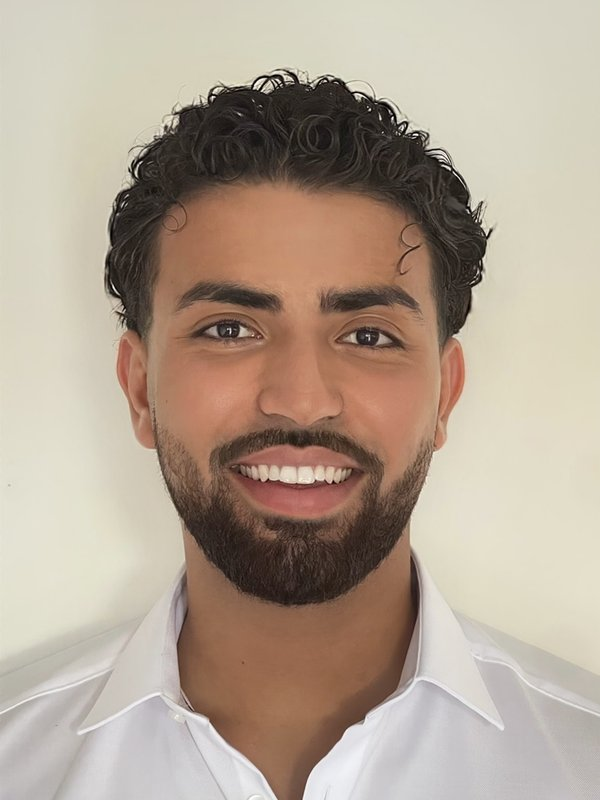
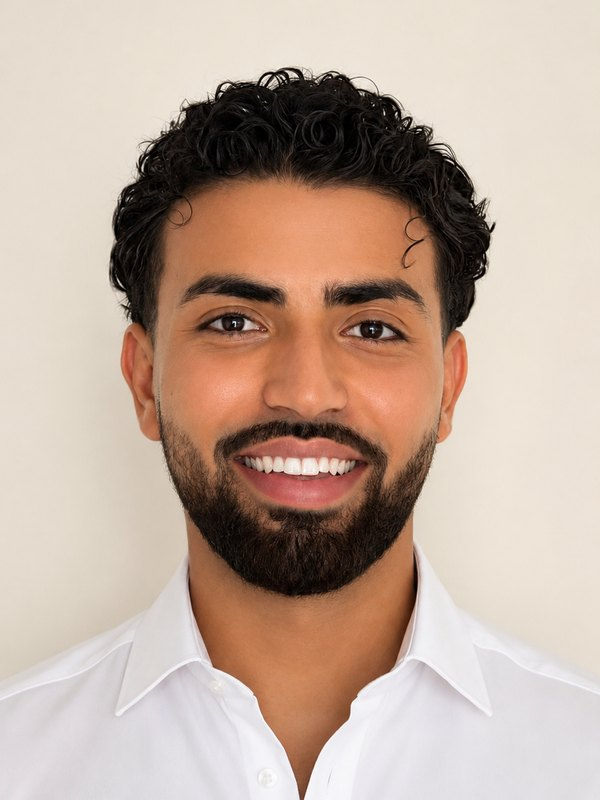
Teamfotos einbinden und Teamleitungen zuordnen
- Fotos aller vier Team-Mitglieder eingebunden (3:4, je zwei Größen für
  scharfe Darstellung auf Mobilgeräten), einheitlich zugeschnitten
- Monis Manai als Teamleitung Karlsruhe, Marc Naccum als Teamleitung Berlin
- Standort-Abschnitte auf Start- und Karriereseite entsprechend korrigiert:
  offen ist jetzt nur noch die Teamleitung in Nürnberg
- Initialen-Platzhalter entfernt, README-Checkliste gekürzt

Claude-Session: https://claude.ai/code/session_019ccmmBehJdBEq4maTRrEXE

diff --git a/index.html b/index.html
@@ -546,8 +546,9 @@
         <span class="badge badge-gold"><i class="dot dot-pulse"></i> In Umsetzung</span>
         <h3 class="mt-16">Expansion nach Berlin &amp; Nürnberg</h3>
         <p class="muted mt-8">
-          Nach Karlsruhe entstehen gerade zwei weitere Standorte. Für beide suchen wir aktuell
-          Teamleiter und Vertriebspartner, die von Tag eins an dabei sind.
+          Nach Karlsruhe entstehen gerade zwei weitere Standorte. Berlin hat mit Marc Naccum bereits
+          eine Teamleitung – für Nürnberg suchen wir sie noch. Vertriebspartner nehmen wir an beiden
+          Standorten ab sofort auf.
         </p>
       </article>
     </div>
@@ -675,13 +676,11 @@
       <h2>Die Menschen hinter Solvera Sales</h2>
       <p class="lead">
         Kurze Wege, klare Ansagen: Bei uns erreichst du die Geschäftsführung direkt –
-        und an jedem Standort steht ein Teamleiter, der selbst im Feld war.
+        und an jedem aufgebauten Standort steht ein Teamleiter, der selbst im Feld war.
+        Für Nürnberg suchen wir diese Position gerade.
       </p>
     </div>
 
-    <!-- TODO: Fotos von Oskar Teschke, Monis Manai und Marc Naccum ergänzen
-         (Format 3:4, z. B. 600×800 px, unter assets/img/ ablegen und wie bei
-         Sami Bssiss als <img> einsetzen). -->
     <div class="team-grid">
       <article class="team-card reveal">
         <div class="team-photo">
@@ -702,7 +701,13 @@
       </article>
 
       <article class="team-card reveal reveal-d1">
-        <div class="team-photo is-empty"><span class="team-initials">OT</span></div>
+        <div class="team-photo">
+          <img src="assets/img/team-oskar-teschke.jpg"
+               srcset="assets/img/team-oskar-teschke@small.jpg 300w, assets/img/team-oskar-teschke.jpg 600w"
+               sizes="(max-width: 460px) 100vw, (max-width: 880px) 50vw, 25vw"
+               alt="Oskar Teschke, Geschäftsführer der Solvera Sales GmbH"
+               width="600" height="800" loading="lazy" decoding="async">
+        </div>
         <div class="team-body">
           <h4>Oskar Teschke</h4>
           <div class="team-role">Geschäftsführer</div>
@@ -714,25 +719,37 @@
       </article>
 
       <article class="team-card reveal reveal-d2">
-        <div class="team-photo is-empty"><span class="team-initials">MM</span></div>
+        <div class="team-photo">
+          <img src="assets/img/team-monis-manai.jpg"
+               srcset="assets/img/team-monis-manai@small.jpg 300w, assets/img/team-monis-manai.jpg 600w"
+               sizes="(max-width: 460px) 100vw, (max-width: 880px) 50vw, 25vw"
+               alt="Monis Manai, Teamleitung Karlsruhe bei der Solvera Sales GmbH"
+               width="600" height="800" loading="lazy" decoding="async">
+        </div>
         <div class="team-body">
           <h4>Monis Manai</h4>
           <div class="team-role">Teamleitung</div>
           <div class="team-loc">
             <svg viewBox="0 0 24 24" fill="none" stroke="currentColor" stroke-width="2" stroke-linecap="round" stroke-linejoin="round"><path d="M21 10c0 7-9 13-9 13s-9-6-9-13a9 9 0 0 1 18 0z"/><circle cx="12" cy="10" r="3"/></svg>
-            <!-- TODO: Standort eintragen -->Standort folgt
+            Karlsruhe
           </div>
         </div>
       </article>
 
       <article class="team-card reveal reveal-d3">
-        <div class="team-photo is-empty"><span class="team-initials">MN</span></div>
+        <div class="team-photo">
+          <img src="assets/img/team-marc-naccum.jpg"
+               srcset="assets/img/team-marc-naccum@small.jpg 300w, assets/img/team-marc-naccum.jpg 600w"
+               sizes="(max-width: 460px) 100vw, (max-width: 880px) 50vw, 25vw"
+               alt="Marc Naccum, Teamleitung Berlin bei der Solvera Sales GmbH"
+               width="600" height="800" loading="lazy" decoding="async">
+        </div>
         <div class="team-body">
           <h4>Marc Naccum</h4>
           <div class="team-role">Teamleitung</div>
           <div class="team-loc">
             <svg viewBox="0 0 24 24" fill="none" stroke="currentColor" stroke-width="2" stroke-linecap="round" stroke-linejoin="round"><path d="M21 10c0 7-9 13-9 13s-9-6-9-13a9 9 0 0 1 18 0z"/><circle cx="12" cy="10" r="3"/></svg>
-            <!-- TODO: Standort eintragen -->Standort folgt
+            Berlin
           </div>
         </div>
       </article>
@@ -760,6 +777,7 @@
         </div>
         <p class="muted small mt-8">Hauptsitz &amp; Ausbildungsstandort</p>
         <ul class="loc-list">
+          <li><svg viewBox="0 0 24 24" fill="none" stroke="currentColor" stroke-width="2.2" stroke-linecap="round" stroke-linejoin="round"><path d="M20 6 9 17l-5-5"/></svg>Teamleitung: <strong>Monis Manai</strong></li>
           <li><svg viewBox="0 0 24 24" fill="none" stroke="currentColor" stroke-width="2.2" stroke-linecap="round" stroke-linejoin="round"><path d="M20 6 9 17l-5-5"/></svg>Team aufgebaut und im Einsatz</li>
           <li><svg viewBox="0 0 24 24" fill="none" stroke="currentColor" stroke-width="2.2" stroke-linecap="round" stroke-linejoin="round"><path d="M20 6 9 17l-5-5"/></svg>Schulungen am 1. und 14. jedes Monats</li>
           <li><svg viewBox="0 0 24 24" fill="none" stroke="currentColor" stroke-width="2.2" stroke-linecap="round" stroke-linejoin="round"><path d="M20 6 9 17l-5-5"/></svg>Wachhausstraße 14d, 76227 Karlsruhe</li>
@@ -775,7 +793,7 @@
         </div>
         <p class="muted small mt-8">Neuer Standort – Team wird gerade zusammengestellt</p>
         <ul class="loc-list">
-          <li><svg viewBox="0 0 24 24" fill="none" stroke="currentColor" stroke-width="2.2" stroke-linecap="round" stroke-linejoin="round"><path d="M20 6 9 17l-5-5"/></svg>Teamleiter-Position zu besetzen</li>
+          <li><svg viewBox="0 0 24 24" fill="none" stroke="currentColor" stroke-width="2.2" stroke-linecap="round" stroke-linejoin="round"><path d="M20 6 9 17l-5-5"/></svg>Teamleitung: <strong>Marc Naccum</strong></li>
           <li><svg viewBox="0 0 24 24" fill="none" stroke="currentColor" stroke-width="2.2" stroke-linecap="round" stroke-linejoin="round"><path d="M20 6 9 17l-5-5"/></svg>Vertriebspartner ab sofort gesucht</li>
           <li><svg viewBox="0 0 24 24" fill="none" stroke="currentColor" stroke-width="2.2" stroke-linecap="round" stroke-linejoin="round"><path d="M20 6 9 17l-5-5"/></svg>Geplanter Partner: Bundesenergie Nord</li>
         </ul>
@@ -872,7 +890,7 @@
           </div>
           <div class="timeline-item">
             <h4>3 · Teamleiter</h4>
-            <p>Du führst ein eigenes Team an einem Standort, verantwortest Zahlen und Ausbildung. In Berlin und Nürnberg sind diese Positionen aktuell offen.</p>
+            <p>Du führst ein eigenes Team an einem Standort, verantwortest Zahlen und Ausbildung. Für Nürnberg ist diese Position aktuell offen.</p>
           </div>
         </div>
       </div>

diff --git a/karriere.html b/karriere.html
@@ -325,7 +325,7 @@
       <article class="card card-hover reveal reveal-d1">
         <div class="ico-tile ico-tile-lg"><svg viewBox="0 0 24 24" fill="none" stroke="currentColor" stroke-width="1.8" stroke-linecap="round" stroke-linejoin="round"><path d="M3 3v18h18"/><path d="m7 15 4-5 4 3 5-7"/></svg></div>
         <h3 class="mt-24">Echter Aufstiegsweg</h3>
-        <p class="muted mt-8">Vom Vertriebspartner zum Mentor zum Teamleiter. In Berlin und Nürnberg sind Leitungspositionen aktuell frei.</p>
+        <p class="muted mt-8">Vom Vertriebspartner zum Mentor zum Teamleiter. Die Teamleitung in Nürnberg ist aktuell frei.</p>
       </article>
 
       <article class="card card-hover reveal reveal-d2">
@@ -385,7 +385,7 @@
         <ul class="check-list mt-24">
           <li><svg viewBox="0 0 24 24" fill="none" stroke="currentColor" stroke-width="2.4" stroke-linecap="round" stroke-linejoin="round"><path d="M20 6 9 17l-5-5"/></svg><span>Keine Deckelung – dein Einsatz bestimmt dein Ergebnis.</span></li>
           <li><svg viewBox="0 0 24 24" fill="none" stroke="currentColor" stroke-width="2.4" stroke-linecap="round" stroke-linejoin="round"><path d="M20 6 9 17l-5-5"/></svg><span>Mentor werden und zusätzlich am Team verdienen.</span></li>
-          <li><svg viewBox="0 0 24 24" fill="none" stroke="currentColor" stroke-width="2.4" stroke-linecap="round" stroke-linejoin="round"><path d="M20 6 9 17l-5-5"/></svg><span>Teamleiter-Positionen in Berlin und Nürnberg offen.</span></li>
+          <li><svg viewBox="0 0 24 24" fill="none" stroke="currentColor" stroke-width="2.4" stroke-linecap="round" stroke-linejoin="round"><path d="M20 6 9 17l-5-5"/></svg><span>Teamleiter-Position in Nürnberg aktuell offen.</span></li>
           <li><svg viewBox="0 0 24 24" fill="none" stroke="currentColor" stroke-width="2.4" stroke-linecap="round" stroke-linejoin="round"><path d="M20 6 9 17l-5-5"/></svg><span>Direkter Draht zur Geschäftsführung, keine Konzernwege.</span></li>
         </ul>
       </article>
@@ -499,7 +499,7 @@
           Volle Verantwortung, volle Gestaltungsfreiheit.
         </p>
         <div class="divider" style="margin:22px 0"></div>
-        <p class="small"><strong class="gold">Standortverantwortung</strong> <span class="muted">· offen in Berlin &amp; Nürnberg</span></p>
+        <p class="small"><strong class="gold">Standortverantwortung</strong> <span class="muted">· aktuell offen in Nürnberg</span></p>
       </article>
     </div>
   </div>
@@ -520,14 +520,15 @@
         <ul class="loc-list">
           <li><svg viewBox="0 0 24 24" fill="none" stroke="currentColor" stroke-width="2.2" stroke-linecap="round" stroke-linejoin="round"><path d="M20 6 9 17l-5-5"/></svg>Vertriebspartner (m/w/d)</li>
           <li><svg viewBox="0 0 24 24" fill="none" stroke="currentColor" stroke-width="2.2" stroke-linecap="round" stroke-linejoin="round"><path d="M20 6 9 17l-5-5"/></svg>Mentor (m/w/d) bei Eignung</li>
+          <li><svg viewBox="0 0 24 24" fill="none" stroke="currentColor" stroke-width="2.2" stroke-linecap="round" stroke-linejoin="round"><path d="M20 6 9 17l-5-5"/></svg>Teamleitung: <strong>Monis Manai</strong></li>
           <li><svg viewBox="0 0 24 24" fill="none" stroke="currentColor" stroke-width="2.2" stroke-linecap="round" stroke-linejoin="round"><path d="M20 6 9 17l-5-5"/></svg>Schulungen am 1. und 14.</li>
         </ul>
       </article>
       <article class="loc reveal reveal-d1">
         <div class="loc-head"><h3>Berlin</h3><span class="badge badge-gold"><i class="dot dot-pulse"></i> Im Aufbau</span></div>
-        <p class="muted small mt-8">Von Tag eins an dabei sein</p>
+        <p class="muted small mt-8">Teamleitung steht – Team wird gerade aufgebaut</p>
         <ul class="loc-list">
-          <li><svg viewBox="0 0 24 24" fill="none" stroke="currentColor" stroke-width="2.2" stroke-linecap="round" stroke-linejoin="round"><path d="M20 6 9 17l-5-5"/></svg><strong>Teamleiter (m/w/d)</strong> – offen</li>
+          <li><svg viewBox="0 0 24 24" fill="none" stroke="currentColor" stroke-width="2.2" stroke-linecap="round" stroke-linejoin="round"><path d="M20 6 9 17l-5-5"/></svg>Teamleitung: <strong>Marc Naccum</strong></li>
           <li><svg viewBox="0 0 24 24" fill="none" stroke="currentColor" stroke-width="2.2" stroke-linecap="round" stroke-linejoin="round"><path d="M20 6 9 17l-5-5"/></svg>Vertriebspartner (m/w/d)</li>
           <li><svg viewBox="0 0 24 24" fill="none" stroke="currentColor" stroke-width="2.2" stroke-linecap="round" stroke-linejoin="round"><path d="M20 6 9 17l-5-5"/></svg>Geplanter Partner: Bundesenergie Nord</li>
         </ul>

diff --git a/README.md b/README.md
@@ -18,11 +18,9 @@ Kein Build-Schritt, kein Framework, keine externen Requests – einfach hochlade
 | 7 | Gelbe Hinweiskästen entfernen | `impressum.html`, `datenschutz.html` |
 | 8 | Formular-Endpoints eintragen (sonst nur E-Mail-Fallback) | `assets/js/config.js` |
 | 9 | Tracking-IDs eintragen – erst dann erscheint der Cookie-Banner | `assets/js/config.js` |
-| 10 | **Standorte der Teamleiter** eintragen (aktuell „Standort folgt") | `index.html`, Abschnitt `#team` |
-| 11 | Fotos von Oskar Teschke, Monis Manai, Marc Naccum ergänzen | `index.html`, Abschnitt `#team` |
-| 12 | Erfolgszahlen aktuell halten | `index.html`, Abschnitt `#erfolge` |
-| 13 | Partner-Logos erst nach schriftlicher Freigabe einsetzen | `index.html`, Abschnitt `#partner` |
-| 14 | `datePosted` / `validThrough` der Stellenanzeige aktualisieren | `karriere.html`, JSON-LD im `<head>` |
+| 10 | Erfolgszahlen aktuell halten | `index.html`, Abschnitt `#erfolge` |
+| 11 | Partner-Logos erst nach schriftlicher Freigabe einsetzen | `index.html`, Abschnitt `#partner` |
+| 12 | `datePosted` / `validThrough` der Stellenanzeige aktualisieren | `karriere.html`, JSON-LD im `<head>` |
 
 ## Seitenstruktur
 
@@ -44,7 +42,7 @@ assets/
 ├── js/forms.js            Validierung + Versand aller Formulare
 ├── js/calculator.js       Photovoltaik-Rechner (Startseite)
 ├── js/earnings.js         Provisions-Rechner (Karriereseite)
-└── img/                   Logo, Favicon (SVG) und Teamfotos (JPG)
+└── img/                   Logo, Favicon (SVG) und vier Teamfotos (JPG, 3:4)
 ```
 
 ---
@@ -135,6 +133,25 @@ Der Wert im Attribut `data-count` wird beim Scrollen hochgezählt:
 ```html
 <div class="stat"><div class="v"><span data-count="25">25</span></div> …
 ```
+
+---
+
+## Teamfotos austauschen
+
+Alle Teamfotos liegen im Format **3:4** (600×800 px, dazu eine kleine Fassung
+mit 300×400 px für Mobilgeräte) unter `assets/img/`:
+
+```
+team-sami-bssiss.jpg     team-sami-bssiss@small.jpg
+team-oskar-teschke.jpg   team-oskar-teschke@small.jpg
+team-monis-manai.jpg     team-monis-manai@small.jpg
+team-marc-naccum.jpg     team-marc-naccum@small.jpg
+```
+
+Für ein neues Gesicht (z. B. die Teamleitung Nürnberg) beide Größen anlegen und
+eine bestehende `<article class="team-card">` in `index.html` kopieren. Damit die
+Reihe einheitlich wirkt, sollte der Kopf bei allen Fotos etwa gleich groß sein und
+oben rund ein Zehntel der Bildhöhe Luft haben.
 
 ---
 
